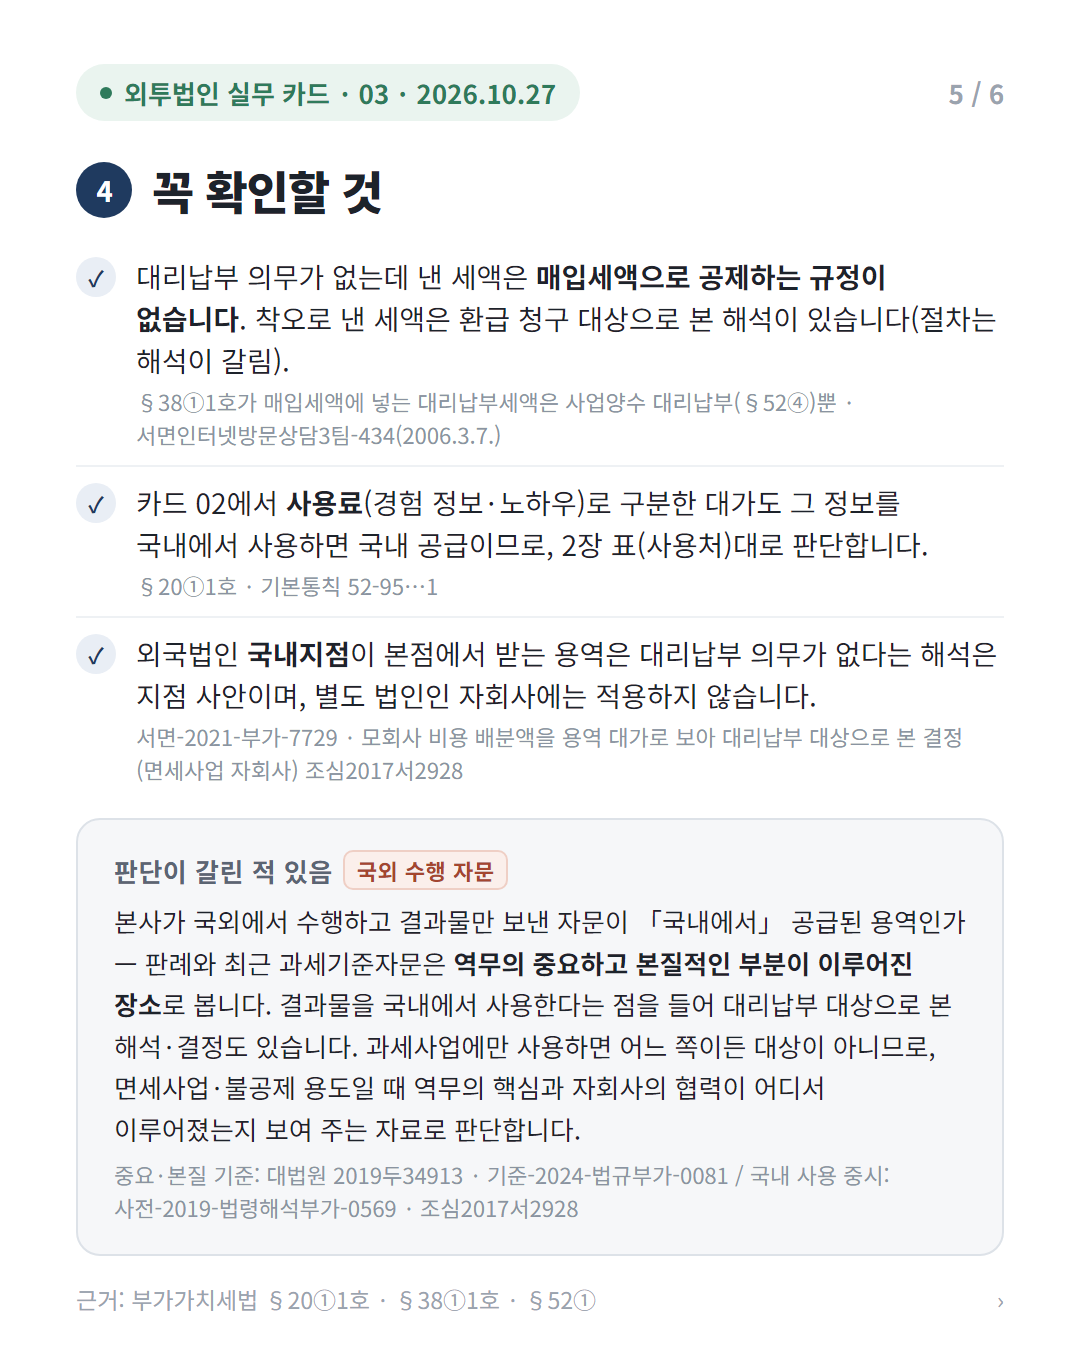
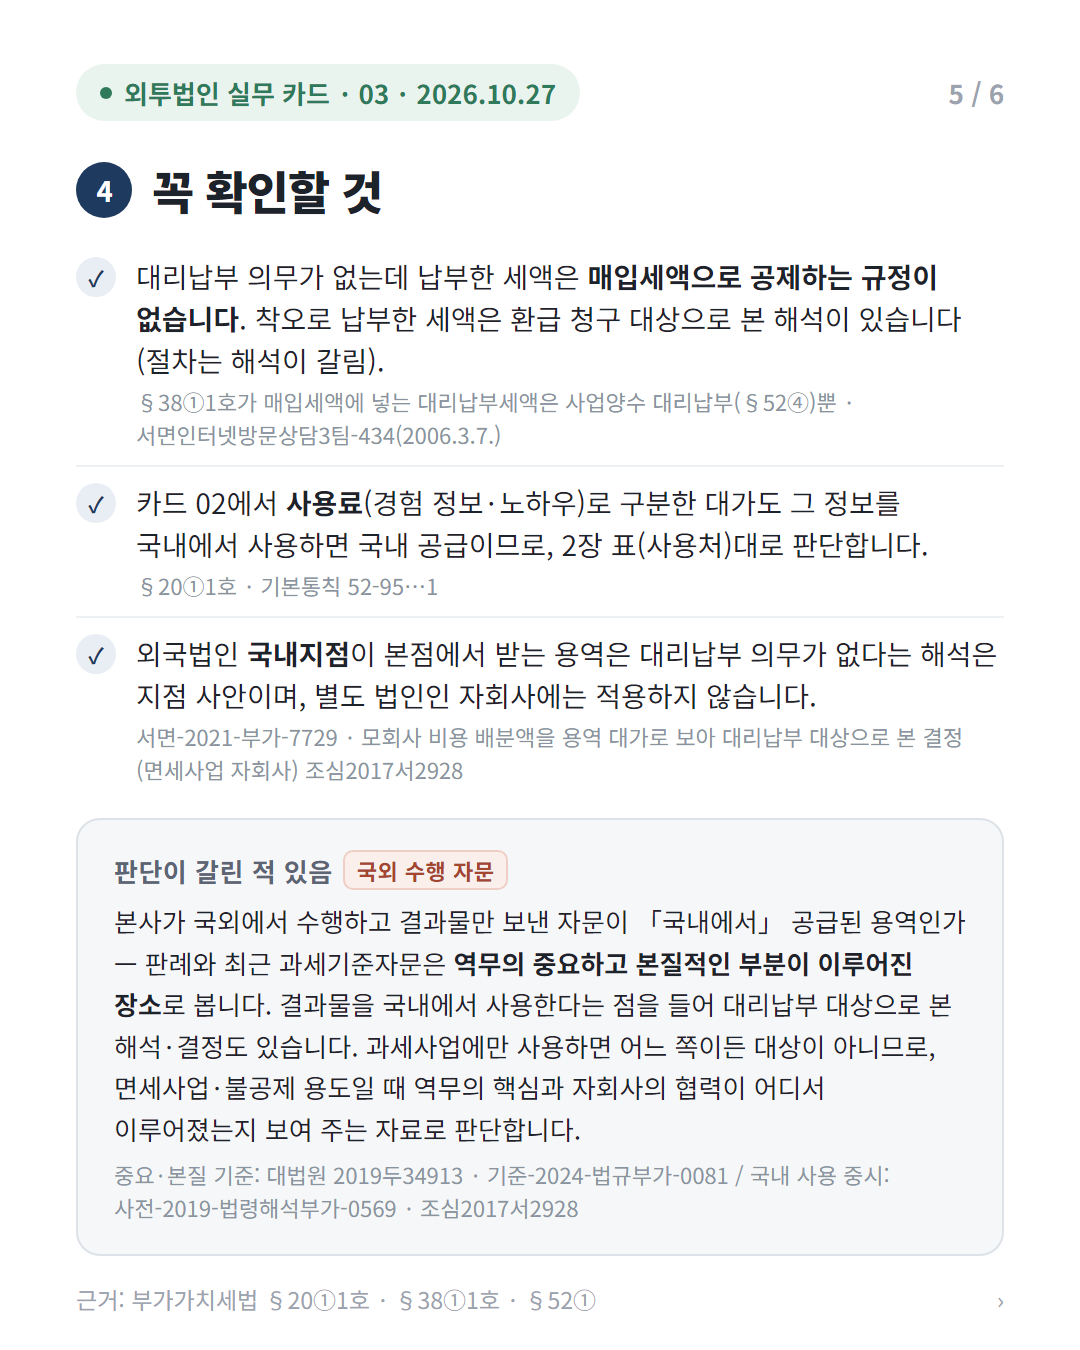
카드 02·03 어휘 정본 반영(냅니다 → 제출합니다, 내다·붙다 → 납부하다·부과되다)
- 02 3장: 신청서 제출 문장 1곳
- 03 4~6장: 납부·미납·과소납부·부과 표현 7곳(뜻·숫자·근거 그대로, 03 2,799자)

Changed region(s): [[0.1222, 0.1867, 0.9167, 0.28]]

diff --git a/원본/03/카드.html b/원본/03/카드.html
@@ -246,8 +246,8 @@
     <div class="r"><div class="q">7~9월</div><div class="a calc">10월 25일</div></div>
     <div class="r"><div class="q">10~12월</div><div class="a calc">다음 해 1월 25일</div></div>
   </div>
-  <p class="ref">예정신고기간에 지급한 분을 확정신고 때 내면 가산세 대상으로 본 해석 · <span class="nb">재소비46015-159</span>(2003.6.9.)</p>
-  <div class="stop"><b>내지 않거나 적게 내면</b> 대리납부도 원천징수와 같은 <b>원천징수 등 납부지연가산세</b>(국세기본법)가 붙습니다 — 미납세액의 3%에 미납세액 × 경과일수 × 10만분의 22를 더합니다(이 둘의 합계는 미납세액의 10% 한도). <span class="ref">국세기본법 §47의5①·②3호</span></div>
+  <p class="ref">예정신고기간에 지급한 분을 확정신고 때 납부하면 가산세 대상으로 본 해석 · <span class="nb">재소비46015-159</span>(2003.6.9.)</p>
+  <div class="stop"><b>미납하거나 과소납부하면</b> 대리납부도 원천징수와 같은 <b>원천징수 등 납부지연가산세</b>(국세기본법)가 부과됩니다 — 미납세액의 3%에 미납세액 × 경과일수 × 10만분의 22를 더합니다(이 둘의 합계는 미납세액의 10% 한도). <span class="ref">국세기본법 §47의5①·②3호</span></div>
   <footer><span>근거: 부가가치세법 §48 · §49 · §52② · 시행령 §95①</span><span>›</span></footer>
 </section>
 
@@ -256,7 +256,7 @@
   <div class="top"><span class="badge">외투법인 실무 카드 · 03 · 2026.10.27</span><span class="page">5 / 6</span></div>
   <h2><span class="no">4</span>꼭 확인할 것</h2>
   <ul class="checks">
-    <li><span>대리납부 의무가 없는데 낸 세액은 <b>매입세액으로 공제하는 규정이 없습니다</b>. 착오로 낸 세액은 환급 청구 대상으로 본 해석이 있습니다(절차는 해석이 갈림).<small>§38①1호가 매입세액에 넣는 대리납부세액은 사업양수 대리납부(§52④)뿐 · <span class="nb">서면인터넷방문상담3팀-434</span>(2006.3.7.)</small></span></li>
+    <li><span>대리납부 의무가 없는데 납부한 세액은 <b>매입세액으로 공제하는 규정이 없습니다</b>. 착오로 납부한 세액은 환급 청구 대상으로 본 해석이 있습니다(절차는 해석이 갈림).<small>§38①1호가 매입세액에 넣는 대리납부세액은 사업양수 대리납부(§52④)뿐 · <span class="nb">서면인터넷방문상담3팀-434</span>(2006.3.7.)</small></span></li>
     <li><span>카드 02에서 <b>사용료</b>(경험 정보·노하우)로 구분한 대가도 그 정보를 국내에서 사용하면 국내 공급이므로, 2장 표(사용처)대로 판단합니다.<small>§20①1호 · <span class="nb">기본통칙 52-95</span>…1</small></span></li>
     <li><span>외국법인 <b>국내지점</b>이 본점에서 받는 용역은 대리납부 의무가 없다는 해석은 지점 사안이며, 별도 법인인 자회사에는 적용하지 않습니다.<small><span class="nb">서면-2021-부가-7729</span> · 모회사 비용 배분액을 용역 대가로 보아 대리납부 대상으로 본 결정(면세사업 자회사) 조심2017서2928</small></span></li>
   </ul>
@@ -274,7 +274,7 @@
   <h2><span class="no">5</span>흔한 실수</h2>
   <div class="fix">
     <div class="bad">과세사업만 하는데 본사 용역이라 대리납부하고 매입세액으로 공제</div>
-    <div class="good">과세사업에 사용하는 용역은 대상이 아니고, 낸 세액을 매입세액에 넣는 규정도 없습니다<small>§52① 괄호 · §38①1호</small></div>
+    <div class="good">과세사업에 사용하는 용역은 대상이 아니고, 납부한 세액을 매입세액에 넣는 규정도 없습니다<small>§52① 괄호 · §38①1호</small></div>
   </div>
   <div class="fix">
     <div class="bad">면세사업을 겸영하는데 대리납부를 전혀 하지 않음</div>

diff --git a/원본/02/카드.html b/원본/02/카드.html
@@ -222,7 +222,7 @@
     <div class="arr">↓</div>
     <div class="step"><div class="n">3단계</div><h3>조약 요건</h3><p>한국에 정기적으로 이용 가능한 <b>고정시설</b>이 있거나 그해(1.1.~12.31.) 본사 직원의 국내 체류가 <b>183일 이상</b>이면 과세, 아니면 과세하지 않습니다(한일 조약 제14조① · 국세청 회신 기준)</p></div>
     <div class="arr">↓</div>
-    <div class="step key"><div class="n">4단계</div><h3>신청서 또는 원천징수</h3><p>조약상 면제여도 <b>2026.1.1. 이후 발생분</b>은 <b>지급 전에</b> 비과세·면제신청서와 거주자증명서를 받아 두고 지급한 달의 다음 달 9일까지 세무서에 냅니다. 받지 못했거나 과세되면 <b>20%</b>와 지방소득세(그 세액의 10%)를 원천징수해 다음 달 10일까지 납부합니다(한일 조약은 인적용역 세율 상한을 두지 않아 국내법 세율을 그대로 적용).</p></div>
+    <div class="step key"><div class="n">4단계</div><h3>신청서 또는 원천징수</h3><p>조약상 면제여도 <b>2026.1.1. 이후 발생분</b>은 <b>지급 전에</b> 비과세·면제신청서와 거주자증명서를 받아 두고 지급한 달의 다음 달 9일까지 세무서에 제출합니다. 받지 못했거나 과세되면 <b>20%</b>와 지방소득세(그 세액의 10%)를 원천징수해 다음 달 10일까지 납부합니다(한일 조약은 인적용역 세율 상한을 두지 않아 국내법 세율을 그대로 적용).</p></div>
   </div>
   <footer><span>근거: 법인세법 §98① · §98의4 · §98의6 · 시행령 §138의4 · 지방세법 §103의52 · <span class="nb">서면-2026-국제세원-2130</span> · <span class="nb">서이46017-12150</span> · <span class="nb">국업46014-137</span></span><span>›</span></footer>
 </section>
